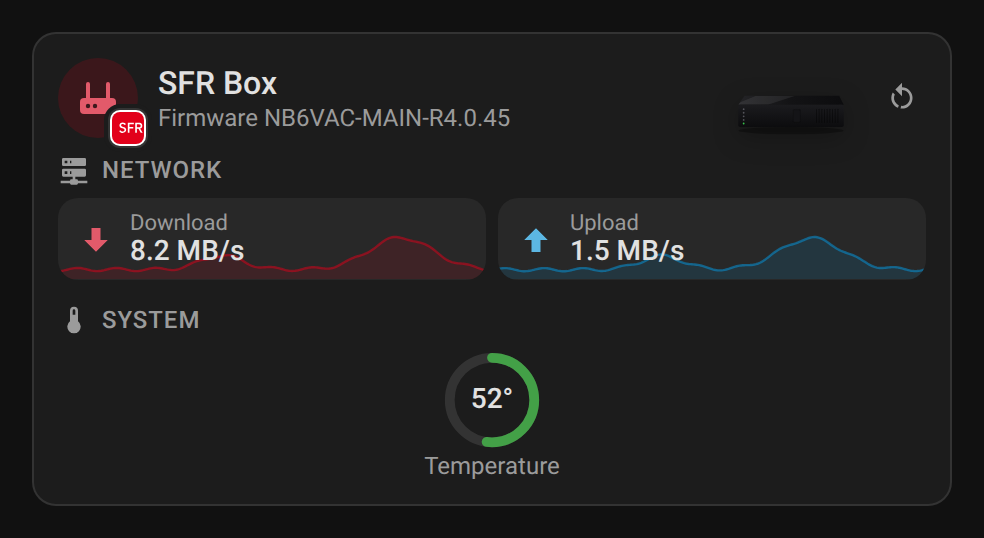
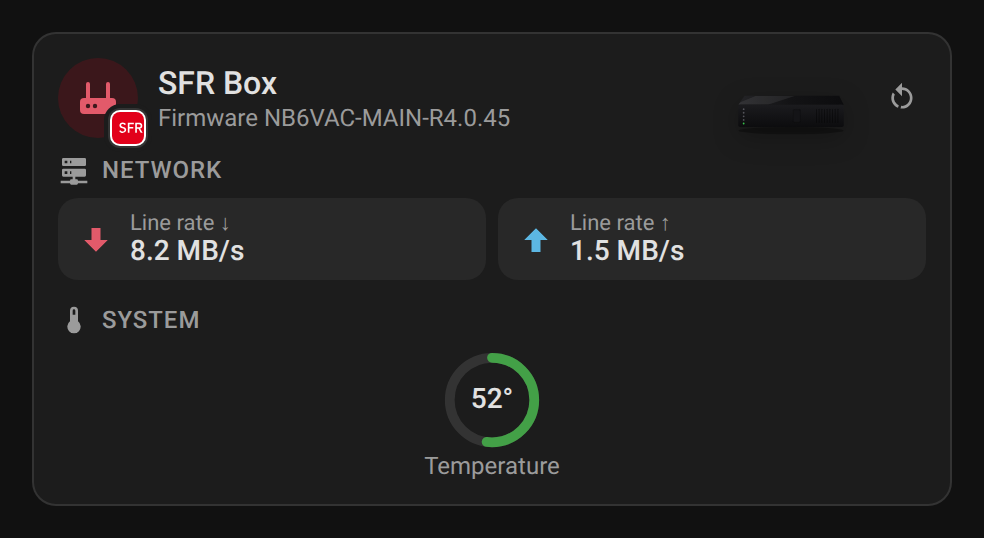
fix: show the SFR Box DSL sync rates as "Line rate", not traffic (2.4.1) (#75)
Problem: the `sfr_box` integration has no throughput sensor; its
`dsl_rate_down` / `dsl_rate_up` sensors (keys `rate_down`/`rate_up`,
translation keys `dsl_rate_*`) are the DSL line sync rates. The card
mapped them to the download / upload slots, so the tiles and their new
24 h curves presented the sync rate as traffic.

Fix: SFR keys now feed `sync_down` / `sync_up` slots (also used to
detect the box). Full and mini cards show them as "Line rate ↓ / ↑"
tiles (new `line_rate` string in all 22 languages) with no 24 h curve
and no statistics request. README Supported integrations table and SFR
screenshots updated.

Tests: SFR discovery asserts `sync_*` and no `rate_*`; new test renders
both cards for an SFR box and checks the "Line rate" labels, no
Download/Upload, no curve and no recorder call.

---
_Generated by [Claude
Code](https://claude.ai/code/session_01F4sAn1Ek4h88w9whpdhjW8)_

---------

diff --git a/src/internet-box-card.js b/src/internet-box-card.js
@@ -463,6 +463,7 @@ const STRINGS = {
     services: "Services",
     download: "Download",
     upload: "Upload",
+    line_rate: "Line rate",
     uptime: "Uptime",
     firmware: "Firmware",
     devices_short: "Devices",
@@ -524,6 +525,7 @@ const STRINGS = {
     services: "Services",
     download: "Réception",
     upload: "Envoi",
+    line_rate: "Débit synchro",
     uptime: "Allumée depuis",
     firmware: "Firmware",
     devices_short: "Appareils",
@@ -585,6 +587,7 @@ const STRINGS = {
     services: "Dienste",
     download: "Download",
     upload: "Upload",
+    line_rate: "Leitungsrate",
     uptime: "Betriebszeit",
     firmware: "Firmware",
     devices_short: "Geräte",
@@ -645,6 +648,7 @@ const STRINGS = {
     services: "Servicios",
     download: "Descarga",
     upload: "Subida",
+    line_rate: "Velocidad de línea",
     uptime: "Tiempo activo",
     firmware: "Firmware",
     devices_short: "Dispositivos",
@@ -706,6 +710,7 @@ const STRINGS = {
     services: "Услуге",
     download: "Преузимање",
     upload: "Слање",
+    line_rate: "Брзина линије",
     uptime: "Време рада",
     firmware: "Фирмвер",
     devices_short: "Уређаји",
@@ -768,6 +773,7 @@ const STRINGS = {
     services: "Usluge",
     download: "Preuzimanje",
     upload: "Slanje",
+    line_rate: "Brzina linije",
     uptime: "Vreme rada",
     firmware: "Firmver",
     devices_short: "Uređaji",
@@ -830,6 +836,7 @@ const STRINGS = {
     services: "Servizi",
     download: "Download",
     upload: "Upload",
+    line_rate: "Velocità di linea",
     uptime: "Tempo di attività",
     firmware: "Firmware",
     devices_short: "Dispositivi",
@@ -891,6 +898,7 @@ const STRINGS = {
     services: "Diensten",
     download: "Download",
     upload: "Upload",
+    line_rate: "Lijnsnelheid",
     uptime: "Uptime",
     firmware: "Firmware",
     devices_short: "Apparaten",
@@ -951,6 +959,7 @@ const STRINGS = {
     services: "Serviços",
     download: "Transferência",
     upload: "Envio",
+    line_rate: "Velocidade da linha",
     uptime: "Tempo ligado",
     firmware: "Firmware",
     devices_short: "Dispositivos",
@@ -1012,6 +1021,7 @@ const STRINGS = {
     services: "Usługi",
     download: "Pobieranie",
     upload: "Wysyłanie",
+    line_rate: "Prędkość linii",
     uptime: "Czas pracy",
     firmware: "Firmware",
     devices_short: "Urządzenia",
@@ -1075,6 +1085,7 @@ const STRINGS = {
     services: "Servicii",
     download: "Descărcare",
     upload: "Încărcare",
+    line_rate: "Viteză linie",
     uptime: "Funcționează de",
     firmware: "Firmware",
     devices_short: "Dispozitive",
@@ -1136,6 +1147,7 @@ const STRINGS = {
     services: "Tjenester",
     download: "Download",
     upload: "Upload",
+    line_rate: "Linjehastighed",
     uptime: "Oppetid",
     firmware: "Firmware",
     devices_short: "Enheder",
@@ -1197,6 +1209,7 @@ const STRINGS = {
     services: "Tjänster",
     download: "Nedladdning",
     upload: "Uppladdning",
+    line_rate: "Linjehastighet",
     uptime: "Drifttid",
     firmware: "Firmware",
     devices_short: "Enheter",
@@ -1258,6 +1271,7 @@ const STRINGS = {
     services: "Услуги",
     download: "Изтегляне",
     upload: "Качване",
+    line_rate: "Скорост на линията",
     uptime: "Време на работа",
     firmware: "Фърмуер",
     devices_short: "Устройства",
@@ -1319,6 +1333,7 @@ const STRINGS = {
     services: "Сервисы",
     download: "Приём",
     upload: "Передача",
+    line_rate: "Скорость линии",
     uptime: "Время работы",
     firmware: "Прошивка",
     devices_short: "Устройства",
@@ -1380,6 +1395,7 @@ const STRINGS = {
     services: "Сервіси",
     download: "Прийом",
     upload: "Передача",
+    line_rate: "Швидкість лінії",
     uptime: "Час роботи",
     firmware: "Прошивка",
     devices_short: "Пристрої",
@@ -1442,6 +1458,7 @@ const STRINGS = {
     services: "Szolgáltatások",
     download: "Letöltés",
     upload: "Feltöltés",
+    line_rate: "Vonalsebesség",
     uptime: "Üzemidő",
     firmware: "Firmware",
     devices_short: "Eszközök",
@@ -1502,6 +1519,7 @@ const STRINGS = {
     services: "Služby",
     download: "Sťahovanie",
     upload: "Odosielanie",
+    line_rate: "Rýchlosť linky",
     uptime: "Doba prevádzky",
     firmware: "Firmvér",
     devices_short: "Zariadenia",
@@ -1564,6 +1582,7 @@ const STRINGS = {
     services: "Služby",
     download: "Stahování",
     upload: "Odesílání",
+    line_rate: "Rychlost linky",
     uptime: "Doba provozu",
     firmware: "Firmware",
     devices_short: "Zařízení",
@@ -1626,6 +1645,7 @@ const STRINGS = {
     services: "Storitve",
     download: "Prejemanje",
     upload: "Pošiljanje",
+    line_rate: "Hitrost linije",
     uptime: "Čas delovanja",
     firmware: "Firmware",
     devices_short: "Naprave",
@@ -1689,6 +1709,7 @@ const STRINGS = {
     services: "Pakalpojumi",
     download: "Lejupielāde",
     upload: "Augšupielāde",
+    line_rate: "Līnijas ātrums",
     uptime: "Darbības laiks",
     firmware: "Firmware",
     devices_short: "Ierīces",
@@ -1750,6 +1771,7 @@ const STRINGS = {
     services: "Υπηρεσίες",
     download: "Λήψη",
     upload: "Αποστολή",
+    line_rate: "Ταχύτητα γραμμής",
     uptime: "Σε λειτουργία",
     firmware: "Firmware",
     devices_short: "Συσκευές",
@@ -1872,8 +1894,10 @@ const OPERATORS = {
       { id: "sfr_box_7", name: "SFR Box 7", re: /box\s*7|nb7/i },
       { id: "sfr_nb6vac", name: "SFR Box", re: /nb6vac|box\s*(plus|power|fibre|thd)/i },
     ],
-    // The reboot button has no translation key but device_class "restart" (matched below too).
-    keys: { rate_down: "dsl_rate_down", rate_up: "dsl_rate_up", reboot: "system_reboot" },
+    // sfr_box exposes no throughput sensor, only the DSL line sync rates: they go to the `sync_*` slots, shown as
+    // "Line rate" (no 24 h traffic curve), never as download / upload. The reboot button has no translation key
+    // but device_class "restart" (matched below too).
+    keys: { sync_down: "dsl_rate_down", sync_up: "dsl_rate_up", reboot: "system_reboot" },
   },
   bbox: {
     platform: "bbox", name: "Bbox", color: "#1246a0", logo: IMG_BBOX,
@@ -2147,9 +2171,12 @@ const registry = (hass) => {
   return list;
 };
 
-/** True when an entity is the operator's "download rate" sensor (by translation key, or entity id for a legacy one). */
+/** True when an entity is the operator's "download rate" sensor (by translation key, or entity id for a legacy one),
+ *  or its downstream line sync rate for an operator without throughput sensors (SFR Box). */
 const isRateDown = (op, e) =>
-  (op.keys.rate_down && e.translation_key === op.keys.rate_down) || (op.legacy?.rate_down?.test(e.entity_id));
+  (op.keys.rate_down && e.translation_key === op.keys.rate_down) ||
+  (op.keys.sync_down && e.translation_key === op.keys.sync_down) ||
+  (op.legacy?.rate_down?.test(e.entity_id));
 
 /** The operator of a device, from the platform of its registry entities, or undefined. */
 const opOfDevice = (hass, deviceId) => {
@@ -2289,6 +2316,8 @@ const discover = (hass, boxId) => {
         // Each data slot is matched by the operator's translation key, or by an entity-id pattern for a legacy one.
         if ((keys.rate_down && k === keys.rate_down) || (legacy?.rate_down?.test(id))) box.scalars.rate_down = id;
         else if ((keys.rate_up && k === keys.rate_up) || (legacy?.rate_up?.test(id))) box.scalars.rate_up = id;
+        else if (keys.sync_down && k === keys.sync_down) box.scalars.sync_down = id;
+        else if (keys.sync_up && k === keys.sync_up) box.scalars.sync_up = id;
         else if (keys.missed && k === keys.missed) box.scalars.missed = id;
         else if (keys.wifi && k === keys.wifi) box.scalars.wifi = id;
         else if (own && domain === "button" && keys.mark_read && k === keys.mark_read) box.scalars.mark_read = id;
@@ -2647,6 +2676,15 @@ class InternetBoxBase extends HTMLElement {
     )}</div></div></div>`;
   }
 
+  // The download / upload tiles, with their 24 h curves (`hist`). A box without throughput sensors (SFR Box) gets
+  // its DSL line sync rates instead, labelled "Line rate" and without curve: the sync rate is not traffic.
+  _rateTiles(sc, hist) {
+    if (sc.rate_down || sc.rate_up)
+      return `${this._rateTile(sc.rate_down, "down", ICONS.down, this._t("download"), hist)}${this._rateTile(sc.rate_up, "up", ICONS.up, this._t("upload"), hist)}`;
+    const k = this._t("line_rate");
+    return `${this._rateTile(sc.sync_down, "down sync", ICONS.down, `${k} ↓`, null)}${this._rateTile(sc.sync_up, "up sync", ICONS.up, `${k} ↑`, null)}`;
+  }
+
   // What the render depends on: registries, language, the states of the box entities and the
   // minute, for the uptime shown in days, hours and minutes.
   _signature() {
@@ -2921,7 +2959,7 @@ class InternetBoxCard extends InternetBoxBase {
 
   _network(box) {
     const sc = box.scalars;
-    if (!sc.rate_down && !sc.rate_up) return "";
+    if (!sc.rate_down && !sc.rate_up && !sc.sync_down && !sc.sync_up) return "";
     const router = this._s(sc.router);
     const facts = [];
     if (router?.attributes?.IPv4)
@@ -2942,10 +2980,7 @@ class InternetBoxCard extends InternetBoxBase {
     const hist = this._config.show_history === false ? null : this._history([sc.rate_down, sc.rate_up].filter(Boolean));
     return `<div>
       <div class="section-title">${svgIcon(ICONS.network)}${this._t("network")}</div>
-      <div class="grid2">
-        ${this._rateTile(sc.rate_down, "down", ICONS.down, this._t("download"), hist)}
-        ${this._rateTile(sc.rate_up, "up", ICONS.up, this._t("upload"), hist)}
-      </div>
+      <div class="grid2">${this._rateTiles(sc, hist)}</div>
       ${facts.length ? `<div class="facts">${facts.join("")}</div>` : ""}
     </div>`;
   }
@@ -3140,12 +3175,10 @@ class InternetBoxMiniCard extends InternetBoxCard {
     const c = this._config;
     const sc = box.scalars;
     const parts = [];
-    if (c.show_network !== false && (sc.rate_down || sc.rate_up)) {
+    if (c.show_network !== false && (sc.rate_down || sc.rate_up || sc.sync_down || sc.sync_up)) {
       // The same 24 h curves as the full card, behind the compact rate tiles.
       const hist = c.show_history === false ? null : this._history([sc.rate_down, sc.rate_up].filter(Boolean));
-      parts.push(
-        `<div class="grid2">${this._rateTile(sc.rate_down, "down", ICONS.down, this._t("download"), hist)}${this._rateTile(sc.rate_up, "up", ICONS.up, this._t("upload"), hist)}</div>`
-      );
+      parts.push(`<div class="grid2">${this._rateTiles(sc, hist)}</div>`);
     }
     const foot = [];
     const router = this._s(sc.router);

diff --git a/README.md b/README.md
@@ -54,7 +54,7 @@ Entities are **discovered automatically**, you don't have to pick them one by on
 |---|---|
 | [Freebox](https://www.home-assistant.io/integrations/freebox/) (built in) | Rates, connection, IP, uptime, temperatures, fans, storage, RAID, Wi-Fi, missed calls (mark as read), connected devices, reboot |
 | [Livebox](https://github.com/cyr-ius/hass-livebox-component) (Orange, custom) | Line rates, Wi-Fi, missed calls (clear), connected devices, reboot |
-| [SFR Box](https://www.home-assistant.io/integrations/sfr_box/) (built in) | DSL line rates, temperature, reboot |
+| [SFR Box](https://www.home-assistant.io/integrations/sfr_box/) (built in) | DSL line sync rates, shown as "Line rate" (the integration has no throughput sensor, so no download / upload traffic nor 24 h curve), temperature, reboot |
 | [Bbox](https://www.home-assistant.io/integrations/bbox/) (Bouygues, built in, YAML) | Download / upload bandwidth |
 
 ## Prerequisites
@@ -209,7 +209,7 @@ While the box is running, the card animates: the cooling fan spins at its live s
 
 ### Operators
 
-The full card with what each integration exposes: the Freebox shows every section (rates, connection, temperatures, fan, storage, Wi-Fi, calls, devices, restart); the Livebox its line rates, Wi-Fi, missed calls (with the clear button), connected devices and restart button; the SFR Box its DSL line rates, temperature and restart button; the Bbox its bandwidth (picture set with `model: bbox_fibre`).
+The full card with what each integration exposes: the Freebox shows every section (rates, connection, temperatures, fan, storage, Wi-Fi, calls, devices, restart); the Livebox its line rates, Wi-Fi, missed calls (with the clear button), connected devices and restart button; the SFR Box its DSL line sync rates ("Line rate"), temperature and restart button; the Bbox its bandwidth (picture set with `model: bbox_fibre`).
 
 | Operator | Light | Dark |
 |---|---|---|

diff --git a/CHANGELOG.md b/CHANGELOG.md
@@ -1,5 +1,10 @@
 # Changelog
 
+## 2.4.1 - 2026-11-07
+
+### Fixes
+- SFR Box: the DSL line sync rates are no longer shown as download / upload traffic (the `sfr_box` integration has no throughput sensor). They show as "Line rate" tiles, without the 24 h traffic curve.
+
 ## 2.4.0 - 2026-11-07
 
 ### Features
